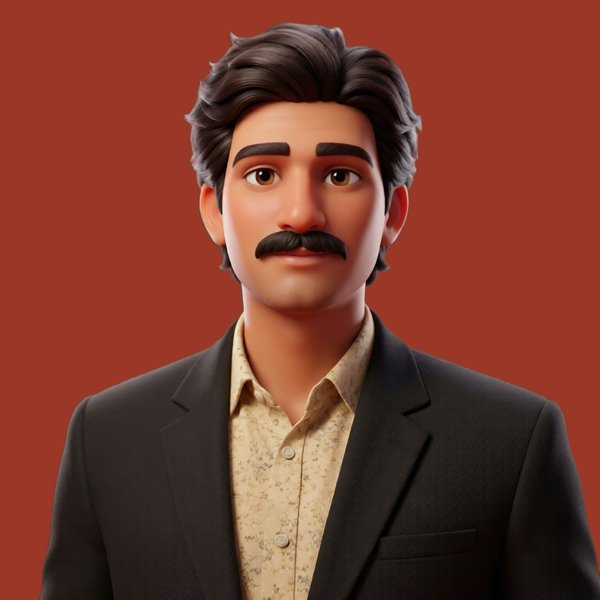
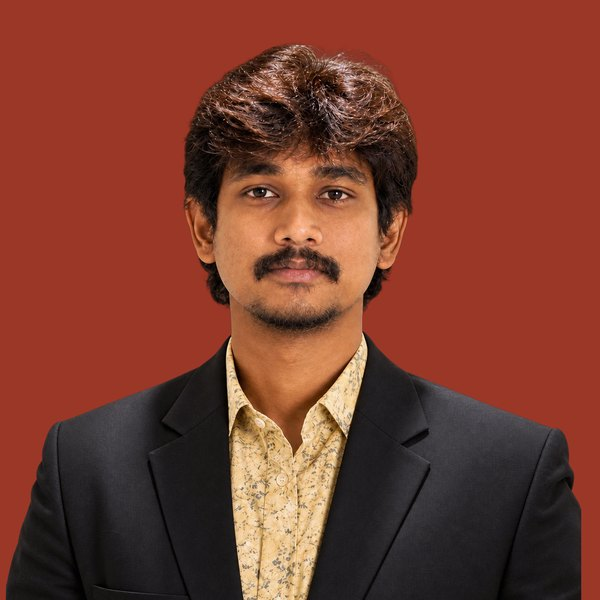
Hero: 360° turntable from front, three-quarter, profile and back photos
Four aligned views (side views mirrored) packed in one atlas, each pushed out
by a silhouette-inflated volume map with Depth Anything detail, so each turns
in 3D. The nearest view is shown with a quick cross-fade on change. Turns
toward the cursor, spins in under a scan-line reveal, drag to spin 360°.
page:enter now fires as the curtain lifts, with a late-listener flag.

diff --git a/assets/gl.js b/assets/gl.js
@@ -1,7 +1,7 @@
-// Home hero: my photo, cut out, with a smiling face that follows the cursor.
-// 35 head poses (7 yaw × 5 pitch, made with LivePortrait from one photo) sit in an atlas; the shader blends the
-// four nearest poses inside the head square and draws the static body around it. The bust is displaced by a
-// depth map so it leans in 3D, gets a rim light from the cursor side, and dissolves in on load.
+// Home hero: a 360° turntable of me built from four photos (front, three-quarter, profile, back; the side views
+// mirrored for the other side). Each view is a mesh pushed out by its own volume map, so it turns in real 3D;
+// the nearest view is shown, with a quick cross-fade when it changes. The bust turns toward the cursor, spins in on load, and can be dragged
+// a full 360°. Rim light follows the turn; a glowing scan edge reveals it on load.
 import * as THREE from 'three';
 import { reduce, touch } from './site.js';
 
@@ -20,64 +20,75 @@ const camera = new THREE.PerspectiveCamera(24, 1, 0.1, 50);
 camera.position.set(0, 0, 5.2);
 
 const loader = new THREE.TextureLoader();
-const [body, heads, depth] = await Promise.all(['assets/me/body.webp', 'assets/me/heads.webp', 'assets/me/depth.png'].map(u => loader.loadAsync(u)));
-for (const t of [body, heads]) t.colorSpace = THREE.SRGBColorSpace;
-heads.generateMipmaps = false; heads.minFilter = THREE.LinearFilter;   // no bleeding between atlas cells
+const [views, vdepth] = await Promise.all(['assets/me/views.webp', 'assets/me/vdepth.png'].map(u => loader.loadAsync(u)));
+views.colorSpace = THREE.SRGBColorSpace;
+views.generateMipmaps = false; views.minFilter = THREE.LinearFilter;   // atlas: no bleeding between views
 
-const COLS = 7, ROWS = 5, SRC = 800, HEAD = [206, 78, 614, 486];       // head square in source pixels (x0, y0, x1, y1)
-const f = v => v.toFixed(4);
-const uniforms = {
-  uBody: { value: body }, uHeads: { value: heads }, uDepth: { value: depth },
-  uPose: { value: new THREE.Vector2((COLS - 1) / 2, (ROWS - 1) / 2) }, uLean: { value: new THREE.Vector2() },
-  uTime: { value: 0 }, uIntro: { value: reduce ? 1 : 0 }
-};
-const mat = new THREE.ShaderMaterial({
-  uniforms, transparent: true,
-  vertexShader: /* glsl */`
-    uniform sampler2D uDepth; uniform vec2 uLean; uniform float uTime;
-    varying vec2 vUv;
-    mat3 rotY(float a){ float c=cos(a), s=sin(a); return mat3(c,0.,-s, 0.,1.,0., s,0.,c); }
-    mat3 rotX(float a){ float c=cos(a), s=sin(a); return mat3(1.,0.,0., 0.,c,s, 0.,-s,c); }
-    void main(){
-      vUv = uv;
-      float d = texture2D(uDepth, uv).r;
-      vec3 p = vec3(position.xy, (d - 0.4) * 0.45);
-      p = rotY(uLean.x) * rotX(uLean.y) * (p - vec3(0., -0.6, 0.)) + vec3(0., -0.6, 0.);   // lean from the chest
-      p.y += sin(uTime * 1.4) * 0.006 * (1.0 - uv.y);                                    // breathing
-      gl_Position = projectionMatrix * modelViewMatrix * vec4(p, 1.0);
-    }`,
-  fragmentShader: /* glsl */`
-    uniform sampler2D uBody, uHeads; uniform vec2 uPose, uLean; uniform float uIntro, uTime;
-    varying vec2 vUv;
-    const vec2 H0 = vec2(${f(HEAD[0] / SRC)}, ${f(1 - HEAD[3] / SRC)}), H1 = vec2(${f(HEAD[2] / SRC)}, ${f(1 - HEAD[1] / SRC)});
-    vec4 cell(vec2 h, float i, float j){
-      return texture2D(uHeads, vec2((i + h.x) / ${COLS}., 1. - (j + h.y) / ${ROWS}.));
-    }
-    vec4 photo(vec2 uv){
-      if (any(lessThan(uv, H0)) || any(greaterThan(uv, H1))) return texture2D(uBody, uv);
-      vec2 h = (uv - H0) / (H1 - H0); h = clamp(vec2(h.x, 1. - h.y), .002, .998);
-      vec2 a = floor(uPose), b = min(a + 1., vec2(${COLS - 1}., ${ROWS - 1}.)), t = smoothstep(.3, .7, uPose - a);   // short cross-fade: no ghosting
-      return mix(mix(cell(h, a.x, a.y), cell(h, b.x, a.y), t.x), mix(cell(h, a.x, b.y), cell(h, b.x, b.y), t.x), t.y);
-    }
-    float hash(vec2 p){ return fract(sin(dot(p, vec2(41.3, 289.1))) * 43758.5); }
-    void main(){
-      vec4 c = photo(vUv);
-      if (c.a < 0.02) discard;
-      // warm grade + rim light on the edge facing the cursor
-      c.rgb = pow(c.rgb, vec3(1.04)) * vec3(1.05, 1.0, 0.95);
-      vec2 dir = normalize(vec2(uLean.x, -uLean.y) + vec2(0.0001, 0.0002));
-      float rim = c.a * (1.0 - texture2D(uBody, vUv + dir * 0.004).a) * smoothstep(0.15, 0.4, vUv.y);
-      c.rgb += vec3(1.0, 0.8, 0.34) * rim * (0.2 + length(uLean) * 2.0);
-      // dissolve in from the bottom with a glowing, noisy edge
-      float edge = uIntro * 1.3 - 0.15 + (hash(floor(vUv * 90.)) - 0.5) * 0.08 - vUv.y;
-      if (edge < 0.0) discard;
-      c.rgb += vec3(1.0, 0.8, 0.34) * (1.0 - smoothstep(0.0, 0.05, edge)) * (1.0 - uIntro * 0.6);
-      gl_FragColor = vec4(c.rgb, c.a * smoothstep(0.0, 0.14, vUv.y));
-      #include <colorspace_fragment>
-    }`
-});
-const mesh = new THREE.Mesh(new THREE.PlaneGeometry(2, 2, touch ? 160 : 256, touch ? 160 : 256), mat);
-scene.add(mesh);
+// keyframes: [angle°, atlas view (0 front, 1 three-quarter, 2 profile, 3 back), mirrored]
+const KEYS = [[0, 0, 0], [45, 1, 0], [90, 2, 1], [180, 3, 0], [270, 2, 0], [315, 1, 1]];
+const shared = { uViews: { value: views }, uDepth: { value: vdepth }, uIntro: { value: reduce ? 1 : 0 }, uTime: { value: 0 },
+  uPitch: { value: 0 }, uLight: { value: 0 } };
+const vertexShader = /* glsl */`
+  uniform sampler2D uDepth; uniform float uRot, uPitch, uTime, uView, uMirror;
+  varying vec2 vUv; varying float vZ;
+  mat3 rotY(float a){ float c=cos(a), s=sin(a); return mat3(c,0.,-s, 0.,1.,0., s,0.,c); }
+  mat3 rotX(float a){ float c=cos(a), s=sin(a); return mat3(1.,0.,0., 0.,c,s, 0.,-s,c); }
+  void main(){
+    vUv = vec2(uMirror > .5 ? 1. - uv.x : uv.x, uv.y);
+    vec4 d4 = texture2D(uDepth, vUv);
+    float z = dot(d4, vec4(equal(vec4(uView), vec4(0., 1., 2., 3.))));
+    vZ = z;
+    vec3 p = rotY(uRot) * vec3(position.xy, z);
+    p = rotX(uPitch) * (p - vec3(0., -.9, 0.)) + vec3(0., -.9, 0.);
+    p.y += sin(uTime * 1.4) * .006 * (1. - uv.y);                              // breathing
+    gl_Position = projectionMatrix * modelViewMatrix * vec4(p, 1.);
+  }`;
+const fragmentShader = /* glsl */`
+  uniform sampler2D uViews; uniform float uView, uW, uIntro, uLight, uMirror;
+  varying vec2 vUv; varying float vZ;
+  float hash(vec2 p){ return fract(sin(dot(p, vec2(41.3, 289.1))) * 43758.5); }
+  void main(){
+    vec2 cell = vec2(mod(uView, 2.), floor(uView / 2.));
+    vec4 c = texture2D(uViews, vec2((cell.x + vUv.x) / 2., (1. - cell.y + vUv.y) / 2.));
+    if (c.a < .01) discard;
+    // rim light on the silhouette edge facing the turn
+    float side = (vUv.x - .5) * (uMirror > .5 ? -1. : 1.);
+    c.rgb += vec3(1., .78, .3) * (1. - smoothstep(0., .1, vZ)) * smoothstep(0., .25, side * uLight) * smoothstep(.12, .4, vUv.y) * .8;
+    // scan-in from the bottom with a glowing, noisy edge
+    float edge = uIntro * 1.3 - .15 + (hash(floor(vUv * 90.)) - .5) * .06 - vUv.y;
+    if (edge < 0.) discard;
+    c.rgb += vec3(1., .8, .34) * (1. - smoothstep(0., .04, edge)) * (1. - uIntro * .5) * 1.5;
+    float a = c.a * uW * smoothstep(.06, .2, vUv.y);
+    gl_FragColor = vec4(linearToOutputTexel(vec4(c.rgb, 1.)).rgb * a, a);      // premultiplied, added below
+  }`;
+const geo = new THREE.PlaneGeometry(2, 2, touch ? 160 : 240, touch ? 160 : 240);
+const meshes = [0, 1].map(() => new THREE.Mesh(geo, new THREE.ShaderMaterial({
+  uniforms: { ...shared, uView: { value: 0 }, uMirror: { value: 0 }, uRot: { value: 0 }, uW: { value: 1 } },
+  vertexShader, fragmentShader, transparent: true, depthTest: false, depthWrite: false,
+  blending: THREE.CustomBlending, blendSrc: THREE.OneFactor, blendDst: THREE.OneFactor   // weights sum to 1: a true cross-fade
+})));
+const pivot = new THREE.Group(); meshes.forEach(m => pivot.add(m)); scene.add(pivot);
+
+// Show the nearest view (with hysteresis); when it changes, cross-fade over ~0.25s. A view at rest is never
+// blended with another, so there's no ghosting; the meshes keep rotating through the fade.
+let cur = 0, prev = 0, fade = 1, lastD = 0;
+function setAngle(deg, dt) {
+  const d = ((deg % 360) + 360) % 360;
+  const dist = i => Math.abs(((d - KEYS[i][0]) % 360 + 540) % 360 - 180);
+  let near = 0; for (let i = 1; i < 6; i++) if (dist(i) < dist(near)) near = i;
+  if (near !== cur && dist(near) < dist(cur) - 4) { prev = cur; cur = near; fade = 0; }
+  const speed = Math.abs(((d - lastD) % 360 + 540) % 360 - 180) / Math.max(dt, 1e-3); lastD = d;
+  fade = Math.min(1, fade + dt * (4 + speed / 40));                     // fast spins switch faster
+  const w = fade * fade * (3 - 2 * fade);
+  const off = i => ((d - KEYS[i][0]) % 360 + 540) % 360 - 180;
+  const wp = (1 - w) * (1 - THREE.MathUtils.smoothstep(Math.abs(off(prev)), 50, 75));   // a view turned too far would smear
+  [[prev, wp], [cur, 1 - wp]].forEach(([i, wt], k) => {
+    const [, v, m] = KEYS[i], u = meshes[k].material.uniforms;
+    u.uView.value = v; u.uMirror.value = m; u.uW.value = wt; u.uRot.value = THREE.MathUtils.degToRad(off(i));
+    meshes[k].visible = wt > 0.001;
+  });
+  return d;
+}
 
 // ---------- layout: the bust fills the stage height, anchored to the bottom ----------
 let W = 1, H = 1;
@@ -86,48 +97,65 @@ function resize() {
   renderer.setSize(W, H, false);
   camera.aspect = W / H; camera.updateProjectionMatrix();
   const vh = 2 * Math.tan(THREE.MathUtils.degToRad(camera.fov / 2)) * camera.position.z;   // visible height at z=0
-  const narrow = W < 900, px = narrow ? Math.min(W * 1.05, 620) : H * 0.96;          // bust height in CSS px
+  const narrow = W < 900, px = narrow ? Math.min(W * 1.05, 620) : H * 1.02;           // bust height in CSS px
   const s = (px / H) * vh / 2;
-  mesh.scale.setScalar(s);
-  mesh.position.set(narrow ? 0 : vh * camera.aspect * 0.07, narrow ? vh / 2 - (40 / H) * vh - s : -vh / 2 + s, 0);
+  pivot.scale.setScalar(s);
+  pivot.position.set(narrow ? 0 : vh * camera.aspect * 0.07, narrow ? vh / 2 - (40 / H) * vh - s : -vh / 2 + s * 0.97, 0);
 }
 new ResizeObserver(resize).observe(stage); resize();
 
-// ---------- input: the face follows the pointer anywhere on the page; idles into a look-around ----------
+// ---------- input: turn toward the pointer, drag to spin, idle look-around ----------
 const target = new THREE.Vector2(), look = new THREE.Vector2(), tmp = new THREE.Vector3();
 const clock = new THREE.Clock();
-let lastMove = -10;
+let lastMove = -10, spin = reduce ? 0 : -360, vel = 0, drag = null, scroll = 0, intro = !reduce;
 const toScreen = (x, y) => {
-  tmp.set(x, y, 0).applyMatrix4(mesh.matrixWorld).project(camera);
+  tmp.set(x, y, 0).applyMatrix4(pivot.matrixWorld).project(camera);
   return [(tmp.x * 0.5 + 0.5) * W, (-tmp.y * 0.5 + 0.5) * H];
 };
-const lines = ['Hey, I’m Mukesh.', 'I ship AI products.', 'Day zero → production.', 'Ask me about Optima AI.', 'Rules first, then AI.', 'Let’s build something.'];
-let li = 0;
+const lines = ['Hey, I’m Mukesh.', 'I ship AI products.', 'Day zero → production.', 'Drag me — I spin 360°.', 'Rules first, then AI.', 'Let’s build something.'];
+let li = 0, facing = true;
 addEventListener('pointermove', e => {
-  const r = canvas.getBoundingClientRect(), [fx, fy] = toScreen(0.03, 0.4), x = e.clientX - r.left - fx, y = e.clientY - r.top - fy;
-  target.set(THREE.MathUtils.clamp(x / (innerWidth * 0.35), -1, 1), THREE.MathUtils.clamp(y / (innerHeight * 0.4), -1, 1));
+  const r = canvas.getBoundingClientRect(), [fx, fy] = toScreen(0, 0.4), x = e.clientX - r.left - fx, y = e.clientY - r.top - fy;
+  target.set(THREE.MathUtils.clamp(x / (innerWidth * 0.4), -1, 1), THREE.MathUtils.clamp(y / (innerHeight * 0.45), -1, 1));
   lastMove = clock.elapsedTime;
-  // hovering the face pops a speech bubble
-  const near = Math.hypot(x, y) < H * 0.14 && e.target.closest('.stage');
+  if (drag !== null) { const dx = e.clientX - drag; drag = e.clientX; spin += dx * 0.45; vel = dx * 0.45; }
+  const near = facing && drag === null && Math.hypot(x, y) < H * 0.14 && e.target.closest('.stage');
   if (near && !bubble.classList.contains('is-on')) bubble.textContent = lines[li++ % lines.length];
   bubble.classList.toggle('is-on', !!near);
 });
+stage.addEventListener('pointerdown', e => {
+  if (e.target.closest('a, button')) return;
+  drag = e.clientX; vel = 0; intro = false; stage.classList.add('is-dragging');
+});
+addEventListener('pointerup', () => { if (drag === null) return; drag = null; stage.classList.remove('is-dragging'); });
 
 let visible = true;
 new IntersectionObserver(([e]) => visible = e.isIntersecting).observe(stage);
-addEventListener('page:enter', () => gsap.to(uniforms.uIntro, { value: 1, duration: reduce ? 0 : 2.2, delay: 0.5, ease: 'power2.out' }));
+ScrollTrigger.create({ trigger: stage, start: 'top top', end: 'bottom top', scrub: true, onUpdate: s => scroll = s.progress });
+function enter() {
+  gsap.to(shared.uIntro, { value: 1, duration: reduce ? 0 : 2.4, delay: 0.3, ease: 'power2.out' });
+  const o = { v: spin };   // spin in: one full turn that lands facing you
+  gsap.to(o, { v: 0, duration: reduce ? 0 : 2.8, delay: 0.3, ease: 'expo.out', onUpdate: () => { if (intro) spin = o.v; }, onComplete: () => intro = false });
+}
+if (document.documentElement.dataset.entered) enter(); else addEventListener('page:enter', enter, { once: true });
 
 const wander = new THREE.Vector2();
 gsap.ticker.add(() => {
   if (!visible) return;
   const dt = Math.min(clock.getDelta(), 0.05), t = clock.elapsedTime, k = 1 - Math.pow(0.002, dt);
-  uniforms.uTime.value = t;
+  shared.uTime.value = t;
   const idle = (t - lastMove > 3 || touch) && !reduce;
-  const goal = idle ? wander.set(Math.sin(t * 0.5) * 0.75, Math.sin(t * 0.33 + 1) * 0.5) : target;
-  look.lerp(goal, idle ? k * 0.3 : k);
-  uniforms.uPose.value.set((look.x * 0.5 + 0.5) * (COLS - 1), (look.y * 0.5 + 0.5) * (ROWS - 1));
-  uniforms.uLean.value.set(look.x * 0.1, look.y * 0.05);
+  look.lerp(idle ? wander.set(Math.sin(t * 0.5) * 0.6, Math.sin(t * 0.33 + 1) * 0.4) : target, idle ? k * 0.3 : k);
+  // after a drag: coast, then settle on the nearest full turn so I face the cursor again
+  if (drag === null && !intro) {
+    vel *= Math.pow(0.04, dt); spin += vel;
+    if (Math.abs(vel) < 0.4) spin += (Math.round(spin / 360) * 360 - spin) * k * 0.4;
+  }
+  const deg = setAngle(spin + look.x * 55 + scroll * 70, dt);
+  facing = deg < 30 || deg > 330;
+  shared.uPitch.value = look.y * 0.08;
+  shared.uLight.value = THREE.MathUtils.clamp(look.x * 1.5 + vel * 0.05, -1, 1);
   renderer.render(scene, camera);
-  const [bx, by] = toScreen(-0.22, 0.62);
+  const [bx, by] = toScreen(-0.22, 0.6);
   bubble.style.left = bx + 'px'; bubble.style.top = by + 'px';
 });

diff --git a/index.html b/index.html
@@ -18,7 +18,7 @@
   <section class="stage" data-hero-zone aria-label="Introduction">
     <div class="stage__word" aria-hidden="true">PRODUCT</div>
     <canvas id="gl" aria-hidden="true"></canvas>
-    <img class="stage__fallback" src="assets/me/photo.jpg" alt="" aria-hidden="true">
+    <img class="stage__fallback" src="assets/me/og.jpg" alt="" aria-hidden="true">
     <div class="stage__bubble mono" aria-hidden="true"></div>
 
     <div class="stage__copy">
@@ -42,7 +42,7 @@
         <li><b>6</b><span>AI &amp; GenAI products</span></li>
         <li><b>6+</b><span>Industries</span></li>
       </ul>
-      <dl class="stage__facts mono"><div><dt>Based in</dt><dd data-scramble>Bangalore, India</dd></div></dl>
+      <dl class="stage__facts mono"><div><dt>Based in</dt><dd data-scramble>Bangalore, India</dd></div><div><dt>Try it</dt><dd>Drag me — I spin 360°</dd></div></dl>
     </aside>
   </section>
 

diff --git a/assets/site.css b/assets/site.css
@@ -255,7 +255,7 @@ section{position:relative;padding:clamp(96px,14vw,180px) var(--pad)}
 }
 
 /* ================= stage hero (home) ================= */
-.stage{position:relative;margin:10px;border-radius:28px;height:calc(100svh - 20px);min-height:580px;overflow:hidden;isolation:isolate;
+.stage{position:relative;margin:10px;border-radius:28px;touch-action:pan-y;user-select:none;height:calc(100svh - 20px);min-height:580px;overflow:hidden;isolation:isolate;
   background:radial-gradient(110% 85% at 56% 78%,#c04a31 0%,var(--stage) 42%,#6a2014 100%);color:var(--cream);
   display:grid;grid-template-columns:minmax(0,1.05fr) minmax(0,1fr);gap:24px;
   padding:clamp(96px,12vh,124px) clamp(20px,3vw,44px) clamp(20px,3vw,32px)}

diff --git a/assets/site.js b/assets/site.js
@@ -214,7 +214,8 @@ function enter(heroChars) {
       .from('.nav', { yPercent: -100, opacity: 0, duration: 1, ease: 'expo.out' }, '<');
   }
   document.querySelectorAll('[data-scramble]').forEach((el, i) => gsap.delayedCall(reduce ? 0 : 1.2 + i * 0.12, () => scramble(el)));
-  dispatchEvent(new CustomEvent('page:enter'));
+  // fires as the curtain starts to lift; late listeners check data-entered
+  tl.call(() => { document.documentElement.dataset.entered = 1; dispatchEvent(new CustomEvent('page:enter')); }, null, first && !reduce ? 1.8 : 0);
 }
 function leave(href) {
   const curtain = document.querySelector('.curtain');
